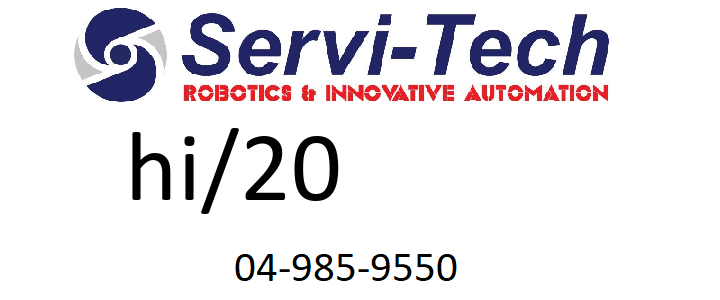
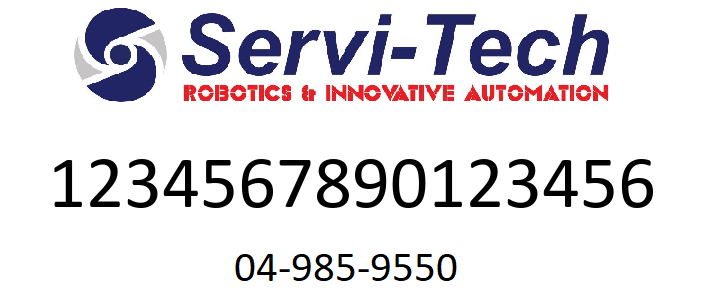
Print label via server

Changed region(s): [[0.0611, 0.42, 0.9167, 0.72], [0.2444, 0.45, 0.275, 0.48]]

diff --git a/print_label_via_brother.py b/print_label_via_brother.py
@@ -18,18 +18,6 @@ from flask import Flask, request, jsonify, Response
 app = Flask(__name__)
 
 
-#  http://127.0.0.1:5000/print?number=2&quantity=2 -this is how it works
-@app.route("/print", methods=['get'])
-def do_print():
-    content = request.args.get('string', None)  # use default value replace 'None'
-    quantity = request.args.get('quantity', None)
-    create_label(content)
-
-    if print_label('print.png', quantity) == 0:
-        return jsonify({'status': 'success'}), 200
-    return jsonify({'status': 'fail'}), 500
-
-
 @app.route("/api", methods=['get'])
 def check_status():
     return jsonify({"Message": "Running"})
@@ -40,25 +28,69 @@ def get_keys():
     data = request.json
     content = data['Content']
     quantity = data['Quantity']
-    create_label(content)
+    template = data['WithLogo']
+    text = reverse_and_flip(content)
+    try:
+        if template:
+            create_label(text, 'template.png')
+        else:
+            create_label(text, 'template1.png')
+            status_code = print_label('print.png', quantity)
+            if status_code == 0:
+                return jsonify({'Message': 'success'}), 200
+            return jsonify({'Message': 'failed with status code: {}'.format(status_code)}), 500
+    except Exception as e:
+        return jsonify({'Message': str(e)}), 500
 
-    if print_label('print.png', quantity) == 0:
-        return jsonify({'status': 'success'}), 200
-    return jsonify({'status': 'fail'}), 500
+
+def is_hebrew_char(c):
+    return 1424 <= ord(c) <= 1514
 
 
-# add serial number to template to create new label
-def create_label(content_print):
-    in_file = 'template.png'
-    out_file = 'print.png'
-    # year_last_2_digits = time.strftime("%y", time.localtime())
-    content = content_print
-    text = content
-    img = Image.open(in_file)
+def reverse_and_flip(text):
+    s = text.split(' ')
+    builder = []
+    buffer = []
+    for w in reversed(s):
+        if (len(w) == 0):
+            continue
+        flag = is_hebrew_char(w[0])
+        if flag:
+            if len(buffer) > 0:
+                for b in reversed(buffer):
+                    builder.append(b)
+                buffer = list()
+            builder.append(''.join(reversed(w)))
+        else:
+            buffer.append(w)
+
+    if len(buffer) > 0:
+        for b in reversed(buffer):
+            builder.append(b)
+
+    return ' '.join(builder)
+
+
+def create_label(content_print, file):
+    length = len(content_print)
+    if 0 <= length <= 9:
+        size = 100
+        W = (720 - length * 55) / 2
+    elif 10 <= length <= 19:
+        size = 75
+        W = (720 - length * 39) / 2
+    elif 20 <= length <= 29:
+        size = 50
+        W = (720 - length * 26) / 2
+    else:
+        raise Exception("Max length allowed is 29 characters")
+
+    W = max(0, W)
+    img = Image.open(file)
     draw = ImageDraw.Draw(img)
-    font = ImageFont.truetype("C:\Windows\Fonts\Calibri.ttf", 100)
-    draw.text((125, 125), text, fill="black", font=font, align='center')
-    img.save(out_file)
+    font = ImageFont.truetype("C:\Windows\Fonts\Calibri.ttf", size)
+    draw.text((W, 150), content_print, fill="black", font=font, align='center')
+    img.save('print.png')
 
 
 # print label using brother_ql library
